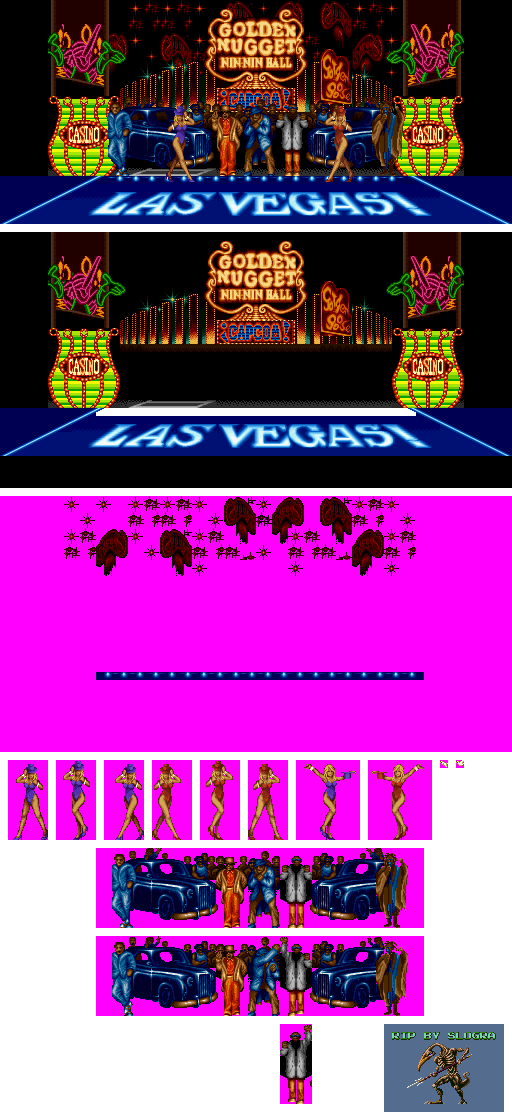
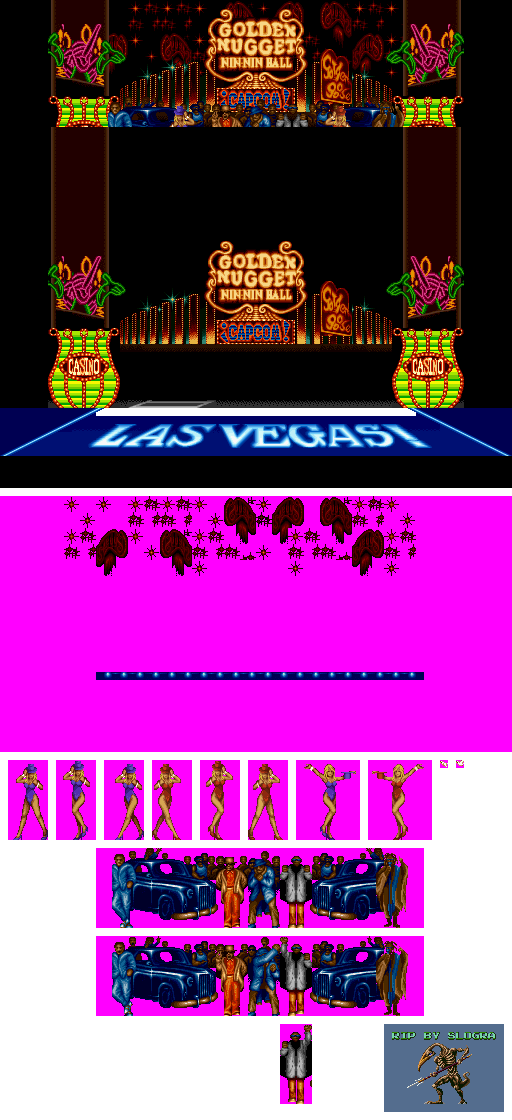
las vegas stage added

Changed region(s): [[0.0, 0.0938, 1.0, 0.2188]]

diff --git a/environment.c b/environment.c
@@ -5,6 +5,7 @@
 #include <allegro5/bitmap_io.h>
 #include <allegro5/color.h>
 #include <allegro5/timer.h>
+#include <time.h>
 
 /*
   Initialize a stage
@@ -53,9 +54,9 @@ GUILE_STAGE* initGuileStage() {
 }
 
 /*
-  Draw the stage on the screen
+  Draw guile stage on the screen
 */
-void drawStage(GUILE_STAGE* stage, long int timer) {
+void drawGuileStage(GUILE_STAGE* stage, long int timer) {
   float floorNextToPlane = BUFFER_H - 138;
   if (!(timer % 10)) stage->persOneFrames++;
   if (!(timer % 15)) stage->persTwoFrames++;
@@ -77,10 +78,127 @@ void drawStage(GUILE_STAGE* stage, long int timer) {
   al_draw_bitmap(stage->wall, 0, floorNextToPlane, 0);
 }
 
+const short carsAndDudes_x[2] = {112, 112};
+const short carsAndDudes_y[2] = {848, 936};
+const short carsAndDudes_w[2] = {296, 296};
+const short carsAndDudes_h[2] = {80, 80};
+
+const short redWoman_x[4] = {152, 200, 248, 368};
+const short redWoman_y[4] = {760, 760, 760, 760};
+const short redWoman_w[4] = {40, 40, 40, 64};
+const short redWoman_h[4] = {80, 80, 80, 80};
+
+const short blueWoman_x[4] = {8, 56, 104, 296};
+const short blueWoman_y[4] = {760, 760, 760, 760};
+const short blueWoman_w[4] = {40, 40, 40, 64};
+const short blueWoman_h[4] = {80, 80, 80, 80};
+
+/*
+  Initialize the vegas stage
+*/
+VEGAS_STAGE* initVegasStage() {
+  VEGAS_STAGE* vegasStage = (VEGAS_STAGE*)malloc(sizeof(VEGAS_STAGE));
+  if (vegasStage == NULL) exit(1);
+
+  vegasStage->sheet = al_load_bitmap("./images/stages/vegasStage.png");
+  alCheckInit(vegasStage->sheet, "Vegas Stage Sheet");
+  al_convert_mask_to_alpha(vegasStage->sheet, al_map_rgb(255, 0, 255));
+
+  vegasStage->mainFloor = grabSprite(vegasStage->sheet, MAIN_FLOOR_X,
+                                     MAIN_FLOOR_Y, MAIN_FLOOR_W, MAIN_FLOOR_H);
+  vegasStage->littleBals =
+      grabSprite(vegasStage->sheet, LITTLE_BALLS_X, LITTLE_BALLS_Y,
+                 LITTLE_BALLS_W, LITTLE_BALLS_H);
+
+  vegasStage->backSparkles =
+      grabSprite(vegasStage->sheet, BACK_SPARKLES_X, BACK_SPARKLES_Y,
+                 BACK_SPARKLES_W, BACK_SPARKLES_H);
+
+  vegasStage->carsAndDudesFrames = 0;
+  for (int i = 0; i < 2; i++)
+    vegasStage->carsAndDudes[i] =
+        grabSprite(vegasStage->sheet, carsAndDudes_x[i], carsAndDudes_y[i],
+                   carsAndDudes_w[i], carsAndDudes_h[i]);
+
+  vegasStage->redWomanFrames = 0;
+  vegasStage->redWomanPosition = 245;
+  vegasStage->redGoing = true;
+
+  vegasStage->blueWomanFrames = 0;
+  vegasStage->blueWomanPosition = 55;
+  vegasStage->blueGoing = true;
+
+  for (int i = 0; i < 4; i++) {
+    vegasStage->redWoman[i] =
+        grabSprite(vegasStage->sheet, redWoman_x[i], redWoman_y[i],
+                   redWoman_w[i], redWoman_h[i]);
+    vegasStage->blueWoman[i] =
+        grabSprite(vegasStage->sheet, blueWoman_x[i], blueWoman_y[i],
+                   blueWoman_w[i], blueWoman_h[i]);
+  }
+
+  return vegasStage;
+}
+
+void drawVegasStage(VEGAS_STAGE* vegasStage, long int timer) {
+  if (!(timer % 10)) vegasStage->carsAndDudesFrames++;
+  if (!(timer % 10)) vegasStage->redWomanFrames++;
+  if (!(timer % 10)) vegasStage->blueWomanFrames++;
+  vegasStage->carsAndDudesFrames %= 2;
+  vegasStage->redWomanFrames %= 3;
+  vegasStage->blueWomanFrames %= 3;
+
+  al_draw_bitmap(vegasStage->littleBals, 35, 255, 0);
+  al_draw_bitmap(vegasStage->mainFloor, -55, -26, 0);
+  al_draw_bitmap(vegasStage->backSparkles, 57, 15, 0);
+  al_draw_bitmap(vegasStage->carsAndDudes[vegasStage->carsAndDudesFrames], 55,
+                 175, 0);
+
+  int redIni = 245;
+  int redEnd = 305;
+  int blueIni = 55;
+  int blueEnd = 130;
+
+  if (vegasStage->redGoing) {
+    al_draw_bitmap(vegasStage->redWoman[vegasStage->redWomanFrames],
+                   vegasStage->redWomanPosition, 180, 0);
+    vegasStage->redWomanPosition += 1;
+    if (vegasStage->redWomanPosition >= redEnd) vegasStage->redGoing = false;
+  } else {
+    al_draw_bitmap(vegasStage->redWoman[vegasStage->redWomanFrames],
+                   vegasStage->redWomanPosition, 180, ALLEGRO_FLIP_HORIZONTAL);
+    vegasStage->redWomanPosition -= 1;
+    if (vegasStage->redWomanPosition <= redIni) vegasStage->redGoing = true;
+  }
+
+  if (vegasStage->blueGoing) {
+    al_draw_bitmap(vegasStage->blueWoman[vegasStage->blueWomanFrames],
+                   vegasStage->blueWomanPosition, 180, ALLEGRO_FLIP_HORIZONTAL);
+    vegasStage->blueWomanPosition += 1;
+    if (vegasStage->blueWomanPosition >= blueEnd) vegasStage->blueGoing = false;
+  } else {
+    al_draw_bitmap(vegasStage->blueWoman[vegasStage->blueWomanFrames],
+                   vegasStage->blueWomanPosition, 180, 0);
+    vegasStage->blueWomanPosition -= 1;
+    if (vegasStage->blueWomanPosition <= blueIni) vegasStage->blueGoing = true;
+  }
+}
+
+/*
+  Draw a stage on the screen
+*/
+void drawStage(GUILE_STAGE* guileStage, VEGAS_STAGE* vegasStage, long int timer,
+               short choice) {
+  if (choice == 0)
+    drawGuileStage(guileStage, timer);
+  else
+    drawVegasStage(vegasStage, timer);
+}
+
 /*
   Destroy a stage
 */
-void destroyStage(GUILE_STAGE* stage) {
+void destroyStage(GUILE_STAGE* stage, VEGAS_STAGE* vegasStage) {
   al_destroy_bitmap(stage->planeFloor);
   al_destroy_bitmap(stage->hangar);
   al_destroy_bitmap(stage->wall);
@@ -91,4 +209,11 @@ void destroyStage(GUILE_STAGE* stage) {
     al_destroy_bitmap(stage->animatedPersThree[i]);
   }
   free(stage);
+
+  al_destroy_bitmap(vegasStage->mainFloor);
+  al_destroy_bitmap(vegasStage->littleBals);
+  al_destroy_bitmap(vegasStage->sheet);
+  for (int i = 0; i < 2; i++) {
+    al_destroy_bitmap(vegasStage->carsAndDudes[i]);
+  }
 }

diff --git a/environment.h b/environment.h
@@ -40,6 +40,7 @@
 #define GUILE_STAGE_ANIM_THREE_W 80
 #define GUILE_STAGE_ANIM_THREE_X_F1 347
 #define GUILE_STAGE_ANIM_THREE_X_F2 432
+
 typedef struct {
   ALLEGRO_BITMAP* sheet;
 
@@ -57,14 +58,19 @@ typedef struct {
 } GUILE_STAGE ;
 
 #define MAIN_FLOOR_X 0
-#define MAIN_FLOOR_Y 232
+#define MAIN_FLOOR_Y 127
 #define MAIN_FLOOR_W 512
-#define MAIN_FLOOR_H 256
+#define MAIN_FLOOR_H 330
 
 #define LITTLE_BALLS_X 96
 #define LITTLE_BALLS_Y 672
 #define LITTLE_BALLS_W 328
 #define LITTLE_BALLS_H 8
+
+#define BACK_SPARKLES_X 96
+#define BACK_SPARKLES_Y 496
+#define BACK_SPARKLES_W 289
+#define BACK_SPARKLES_H 80
 
 extern const short carsAndDudes_x[2];
 extern const short carsAndDudes_y[2];
@@ -86,10 +92,20 @@ typedef struct{
 
   ALLEGRO_BITMAP* mainFloor;
   ALLEGRO_BITMAP* littleBals;
+  ALLEGRO_BITMAP* backSparkles;
+  
   ALLEGRO_BITMAP* carsAndDudes[2];
+  short carsAndDudesFrames;
+  
   ALLEGRO_BITMAP* redWoman[4];
+  short redWomanFrames;
+  int redWomanPosition;
+  bool redGoing;
+  
   ALLEGRO_BITMAP* blueWoman[4];
-
+  short blueWomanFrames;
+  int blueWomanPosition;
+  bool blueGoing;
 } VEGAS_STAGE;
 
 /*
@@ -105,10 +121,10 @@ VEGAS_STAGE* initVegasStage();
 /*
   Draw the stage on the screen
 */
-void drawStage(GUILE_STAGE* stage, long int timer);
+void drawStage(GUILE_STAGE* guileStage, VEGAS_STAGE* vegasStage, long int timer, short choice);
 
 /*
   Destroy a stage
 */
-void destroyStage(GUILE_STAGE* stage);
+void destroyStage(GUILE_STAGE* stage, VEGAS_STAGE* vegasStage);
 #endif // !__GAME_ENVIRONMENT__

diff --git a/main.c b/main.c
@@ -101,8 +101,14 @@ int main(void) {
   player2 = initPlayer(NULL, PLAYER_2_INIT_POSIT_X, 0, false);
 
   // STAGE THINGS
+
+  short stageChoice = 1;
+
   GUILE_STAGE *guileStage;
   guileStage = initGuileStage();
+
+  VEGAS_STAGE *vegasStage;
+  vegasStage = initVegasStage();
 
   MATCH_INTERFACE *matchInterface;
   matchInterface = initMatchInterface(player1, player2);
@@ -292,7 +298,8 @@ int main(void) {
         dispPreDraw(bufferBitmap);
         al_clear_to_color(al_map_rgb(80, 136, 200));
 
-        drawStage(guileStage, al_get_timer_count(timer));
+        drawStage(guileStage, vegasStage, al_get_timer_count(timer),
+                  stageChoice);
         drawPlayer(player1, boxColors[selectP1], al_get_timer_count(timer));
         drawPlayer(player2, boxColors[selectP2], al_get_timer_count(timer));
         drawMatchInterface(matchInterface, player1, player2,
@@ -332,7 +339,7 @@ int main(void) {
   playerDestroyer(player2);
   matchInterfaceDestroyer(matchInterface);
   destroyCharacSelectSprites(characSelectSprites);
-  destroyStage(guileStage);
+  destroyStage(guileStage, vegasStage);
   al_destroy_timer(timer);
   al_destroy_event_queue(queue);
   return 0;
